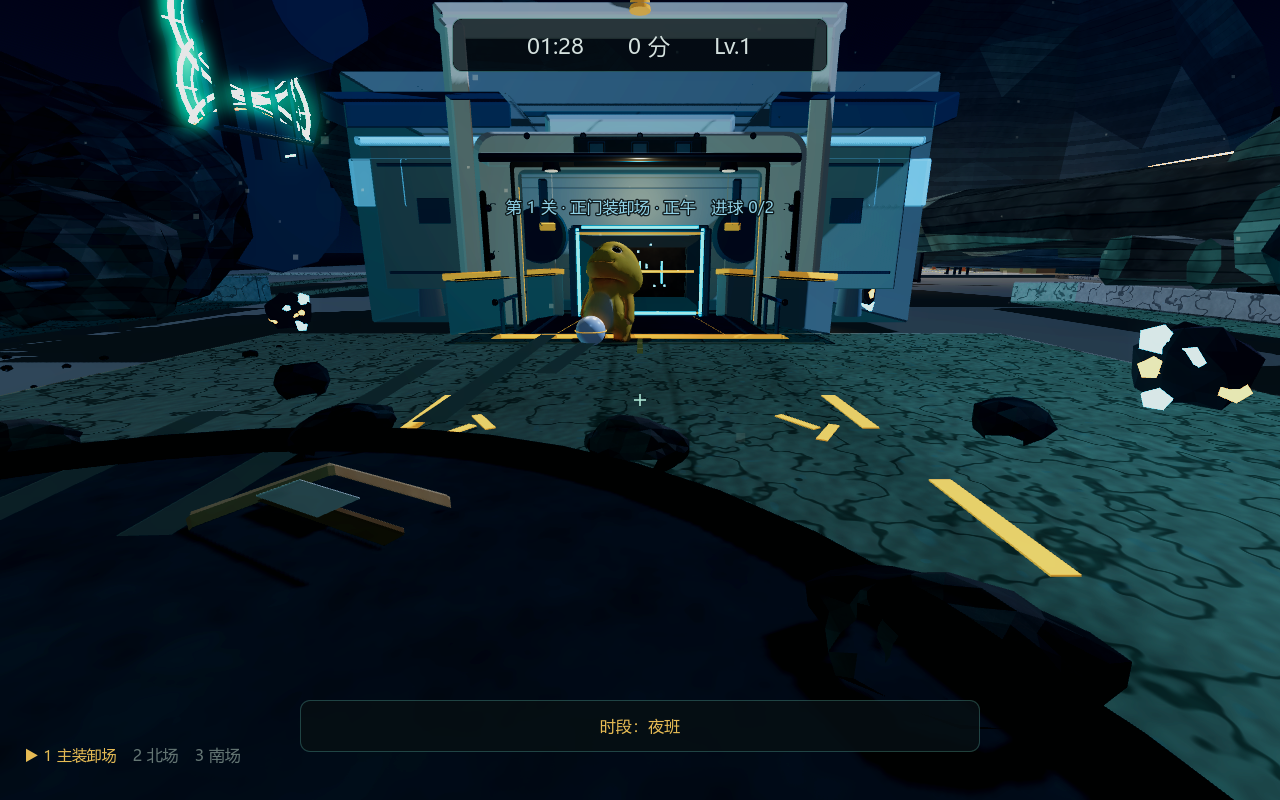
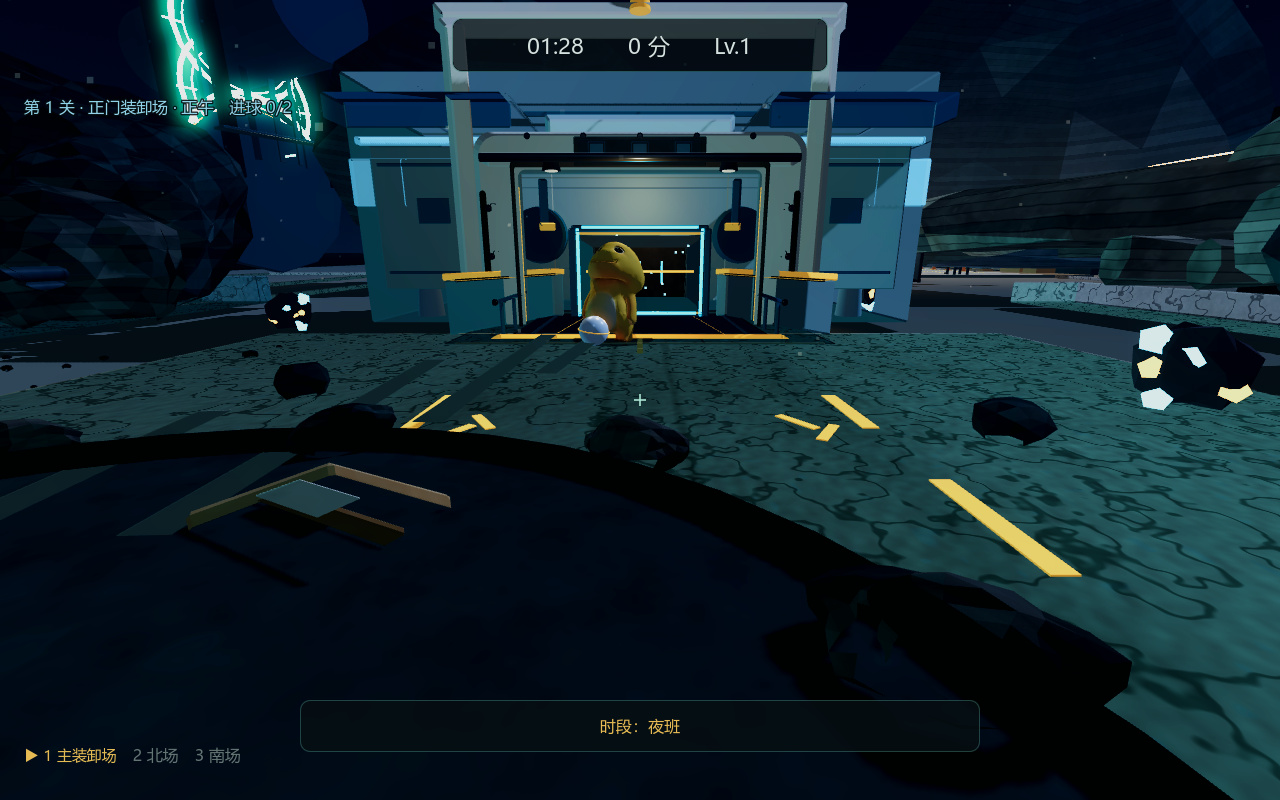
fix(gulu-ui): 关卡信息移到左上、赶路导航 HUD、顶棚抬高避让岩石
门楣招牌不再被 HUD 遮挡；赶路时顶部显示目的地/方位/距离并实时刷新；去掉会读成铁板的地面油渍；稳定 stage-boot 自测。

Changed region(s): [[0.375, 0.25, 0.625, 0.4375], [0.0, 0.125, 0.25, 0.1562]]

diff --git a/game/previews/gulu_planet/STATUS.md b/game/previews/gulu_planet/STATUS.md
@@ -19,6 +19,15 @@
   `--dragon-test` 5/0、`--wind-test` 7/0。
 - 新截图：`docs/shots_p0_2026_11_25/`（A–G 七机位，HUD 已减法）。
 
+## 2026-11-26 · HUD 避让招牌 + 赶路导航 + 顶棚抬高
+
+- 关卡信息从画面中央移到**左上角**（24,96），不再压住门楣招牌；底部路线条保持不变。
+- **赶路导航 HUD**：赶路时顶部显示「前往 北场·黄昏　往东方向　26 m」，随距离实时刷新；
+  原来的居中重复提示删除，只保留一处。
+- 连廊顶棚抬高到 4.15 m，支撑柱同步加高，主场景伸出来的岩石不再穿顶棚。
+- 去掉会读成“铁板”的地面油渍块（保留托盘/锥桶/防水布）。
+- `--stage-boot-test` 偶发把上一帧目标算进来，改成复位后再断言，连续 6 次稳定通过。
+- 全量回归 23 组 **295 项**全绿；单文件 exe 重新导出（166.6 MB，冒烟 0）。
 ## 2026-11-26 · 连廊管束 + 场地生活痕迹 + 招牌放大
 
 - 连廊：每 10 m 一组横跨管束（3 根，2.45–2.97 m 高，不挡人）+ 两道地面警示条。
